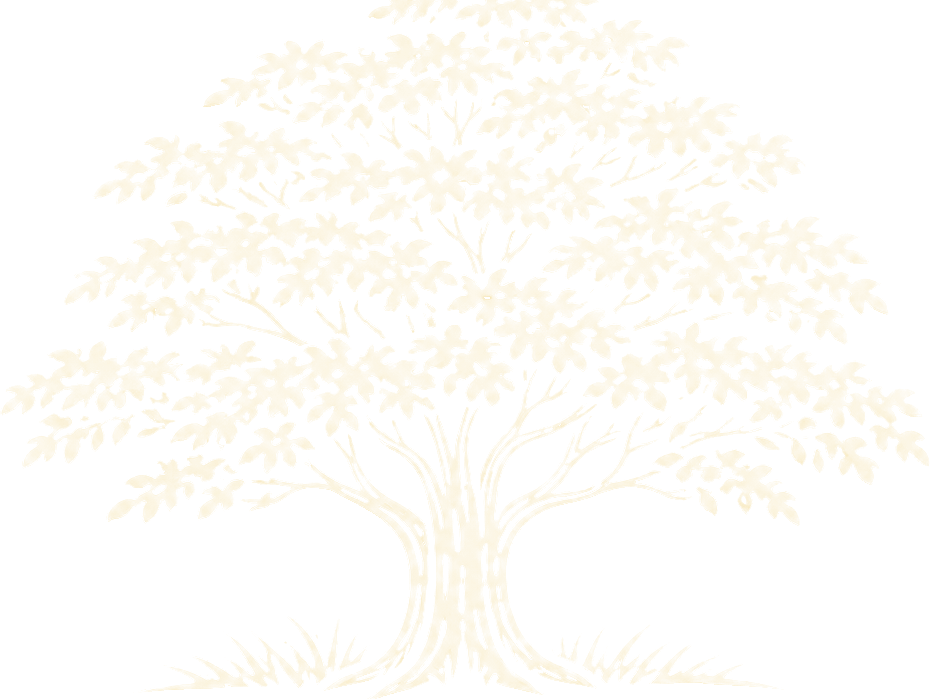
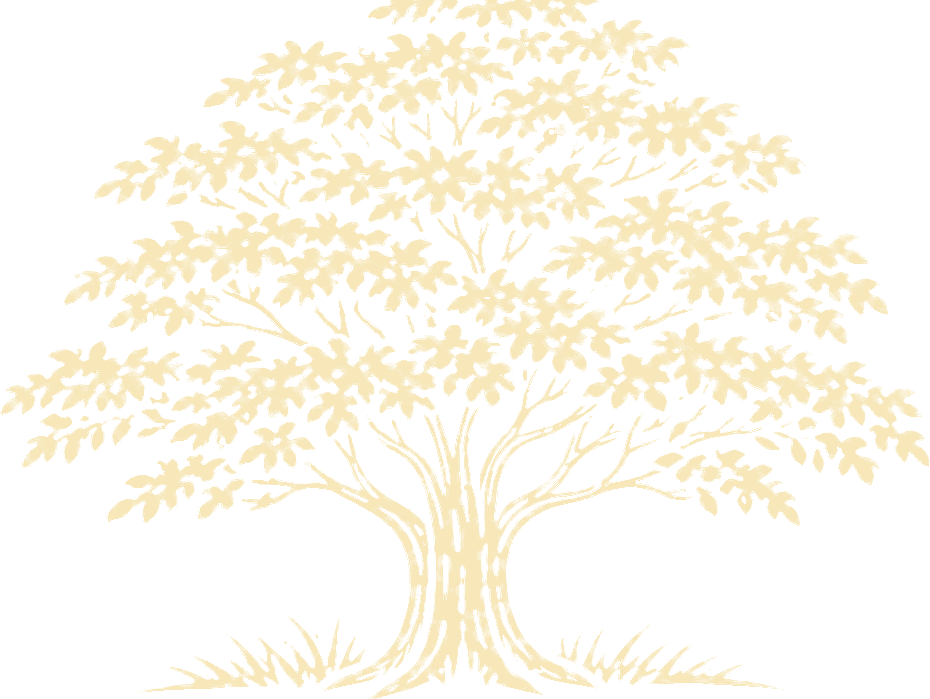
Add files via upload

Changed region(s): [[0.0, 0.0, 0.9978, 1.0]]

diff --git a/index.html b/index.html
@@ -7,7 +7,7 @@ nav#tabs{display:grid;grid-template-columns:repeat(5,minmax(0,1fr));gap:4px;over
 .parts-section{background:#f5f4ec;border-radius:12px;padding:10px 12px;margin-top:12px}.part-option{display:flex;align-items:center;gap:10px;padding:8px 0;font-size:14px}.part-option input{width:19px;height:19px;accent-color:#60764C;flex:none}.part-option span{flex:1}.task-open{padding:0;border:0;background:transparent;text-align:left;color:inherit;font-weight:700;font-size:16px;text-decoration:none}.task-open:focus-visible{outline:2px solid #60764C}.part-detail{font-size:12px;color:#596354;margin-top:5px}.log-parts{margin:7px 0;font-size:13px;color:#46583b}
 
 /* Version 7 */
-header{background:#50583e;color:#F7E7B9}header h1{color:#F7E7B9}header p{color:#F7E7B9}.brand{max-width:850px;margin:auto;display:flex;justify-content:space-between;align-items:center;gap:10px}.brand>div{min-width:0}.brand-tree{width:clamp(85px,24vw,135px);height:110px;object-fit:contain;flex:none}header h1{font-size:clamp(28px,7vw,37px)}header p{font-size:clamp(10px,3vw,14px)}
+header{background:#50583e;color:#F7E7B9}header h1{color:#F7E7B9}header p{color:#F7E7B9}.brand{max-width:850px;margin:auto;display:flex;justify-content:space-between;align-items:center;gap:10px}.brand>div{min-width:0}.brand-tree{width:clamp(105px,27vw,150px);height:120px;object-fit:contain;flex:none}header h1{font-size:clamp(28px,7vw,37px)}header p{font-size:clamp(10px,3vw,14px)}
 .filters{display:grid;grid-template-columns:repeat(3,minmax(0,1fr));gap:5px;overflow:visible;padding-bottom:10px}.filters button,nav#tabs button{font-size:clamp(10px,2.6vw,13px);min-height:43px;padding:8px 3px;border-radius:9px;min-width:0}.filters button{overflow-wrap:anywhere}nav#tabs{margin-bottom:5px}.top>div{display:flex;gap:7px}.top>div button{background:#50583e;color:#fff;min-width:100px;flex:1;font-size:clamp(12px,3vw,15px)}.top{align-items:center}.top h2{flex:1}.top>div{flex:1}.part-manage{margin-top:12px;padding-top:12px;border-top:1px solid #d9dfd2}.part-add{display:flex;gap:6px;align-items:center}.part-add input{flex:1;min-width:0}.part-add button{background:#60764C;color:#fff}.part-delete{font-size:12px;padding:5px 8px;background:#f3e6e2;color:#9b4545}.suggestions{border:1px solid #d9dfd2;background:#fff;border-radius:14px;padding:14px;margin:12px 0}.suggestions h3{font:700 19px Georgia,serif;margin:0 0 8px}.suggestion{border-top:1px solid #e8e8df;padding:11px 0}.suggestion .muted{margin:3px 0 8px}.suggestion-actions{display:flex;gap:6px}.suggestion-actions button{font-size:12px}.suggestion-actions .primary{background:#60764C}.history-entry{padding:7px 0;border-bottom:1px solid #eee}.history-entry:last-child{border:0}.brand-tree{filter:none}
 @media(max-width:410px){.brand-tree{width:82px;height:95px}.top>div button{min-width:0;padding:9px 6px}.top h2{font-size:22px!important}}
 </style></head><body>

diff --git a/sw.js b/sw.js
@@ -1,1 +1,1 @@
-const CACHE='boegegaarden-v7';const ASSETS=['./','./index.html','./manifest.webmanifest','./icon-192.png','./icon-512.png','./beech-tree.png'];self.addEventListener('install',e=>{e.waitUntil(caches.open(CACHE).then(c=>c.addAll(ASSETS)));self.skipWaiting()});self.addEventListener('activate',e=>{e.waitUntil(caches.keys().then(keys=>Promise.all(keys.filter(k=>k!==CACHE&&k.startsWith('boegegaarden-')).map(k=>caches.delete(k)))).then(()=>self.clients.claim()))});self.addEventListener('fetch',e=>{if(e.request.method!=='GET'||new URL(e.request.url).origin!==self.location.origin)return;e.respondWith(fetch(e.request).then(r=>{if(r.ok){let copy=r.clone();caches.open(CACHE).then(c=>c.put(e.request,copy))}return r}).catch(()=>caches.match(e.request)))})
+const CACHE='boegegaarden-v7-tree-fix1';const ASSETS=['./','./index.html','./manifest.webmanifest','./icon-192.png','./icon-512.png','./beech-tree.png'];self.addEventListener('install',e=>{e.waitUntil(caches.open(CACHE).then(c=>c.addAll(ASSETS)));self.skipWaiting()});self.addEventListener('activate',e=>{e.waitUntil(caches.keys().then(keys=>Promise.all(keys.filter(k=>k!==CACHE&&k.startsWith('boegegaarden-')).map(k=>caches.delete(k)))).then(()=>self.clients.claim()))});self.addEventListener('fetch',e=>{if(e.request.method!=='GET'||new URL(e.request.url).origin!==self.location.origin)return;e.respondWith(fetch(e.request).then(r=>{if(r.ok){let copy=r.clone();caches.open(CACHE).then(c=>c.put(e.request,copy))}return r}).catch(()=>caches.match(e.request)))})
